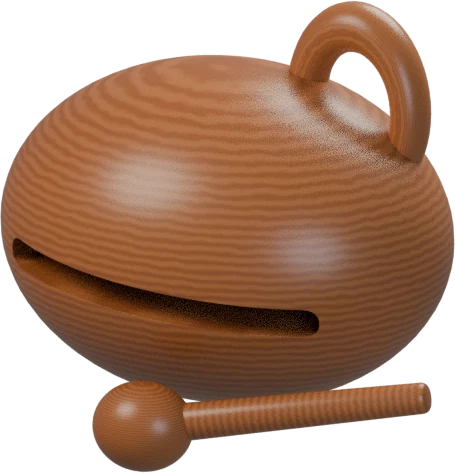
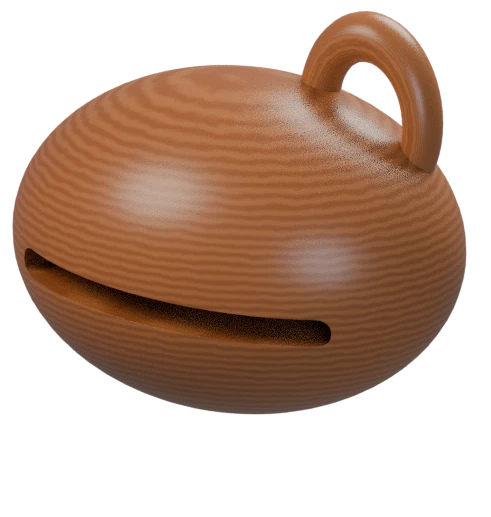
Swing the wooden mallet and time the sound to contact

diff --git a/src/ui/Woodfish.tsx b/src/ui/Woodfish.tsx
@@ -1,4 +1,4 @@
-import { useEffect, useState } from 'react';
+import { useCallback, useEffect, useRef, useState } from 'react';
 
 interface Props {
   onStrike: () => void;
@@ -8,14 +8,22 @@ interface Props {
 export default function Woodfish({ onStrike, onClose }: Props) {
   const [automatic, setAutomatic] = useState(false);
   const [strike, setStrike] = useState(0);
+  const soundTimer = useRef<number>();
+  const hit = useCallback(() => {
+    window.clearTimeout(soundTimer.current);
+    setStrike(value => value + 1);
+    if (window.matchMedia('(prefers-reduced-motion: reduce)').matches) {
+      onStrike();
+    } else {
+      soundTimer.current = window.setTimeout(onStrike, 143);
+    }
+  }, [onStrike]);
+  useEffect(() => () => window.clearTimeout(soundTimer.current), []);
   useEffect(() => {
     if (!automatic) return;
-    const timer = window.setInterval(() => {
-      onStrike();
-      setStrike(value => value + 1);
-    }, 1150);
+    const timer = window.setInterval(hit, 1150);
     return () => window.clearInterval(timer);
-  }, [automatic, onStrike]);
+  }, [automatic, hit]);
   useEffect(() => {
     const close = (event: KeyboardEvent) => {
       if (event.key === 'Escape') onClose();
@@ -34,12 +42,12 @@ export default function Woodfish({ onStrike, onClose }: Props) {
           </div>
           <button type="button" className="mala-close" aria-label="닫기" onClick={onClose}>×</button>
         </header>
-        <button type="button" className="woodfish-strike" aria-label="목어 치기" onClick={() => {
-          onStrike();
-          setStrike(value => value + 1);
-        }}>
-          <img key={strike} className={strike ? 'woodfish-struck' : undefined}
-            src="assets/ritual/woodfish.webp" alt="나무 목어와 채" draggable={false} />
+        <button type="button" className="woodfish-strike" aria-label="목어 치기" onClick={hit}>
+          <span className="woodfish-art">
+            <img src="assets/ritual/woodfish.webp" alt="나무 목어" draggable={false} />
+            <img key={strike} className={strike ? 'woodfish-mallet woodfish-struck' : 'woodfish-mallet'}
+              src="assets/ritual/woodfish-mallet.webp" alt="" draggable={false} />
+          </span>
         </button>
         <footer className="woodfish-controls">
           <button type="button" className="mala-step" aria-pressed={automatic}

diff --git a/src/index.css b/src/index.css
@@ -614,18 +614,22 @@ html[data-md-night='1'] canvas { filter: brightness(0.62) saturate(0.72); transi
   background: transparent;
   cursor: pointer;
 }
-.woodfish-strike img {
+.woodfish-art {
+  position: relative;
   display: block;
-  width: min(100%, 285px);
-  max-height: 49dvh;
-  object-fit: contain;
+  width: min(100%, 285px, 46dvh);
   margin: auto;
   filter: drop-shadow(0 16px 18px #0007);
 }
-.woodfish-struck { animation: woodfish-tap 220ms ease-out; }
+.woodfish-art img { display: block; width: 100%; pointer-events: none; }
+.woodfish-mallet { position: absolute; inset: 0; transform-origin: 91% 82%; }
+.woodfish-struck { animation: woodfish-tap 340ms ease-in-out; }
 .woodfish-controls { display: flex; justify-content: center; gap: 12px; }
 @keyframes woodfish-tap {
-  35% { transform: scale(0.985) rotate(-1deg); }
+  16% { transform: rotate(-6deg); }
+  42% { transform: rotate(30deg); }
+  62% { transform: rotate(9deg); }
+  76% { transform: rotate(13deg); }
 }
 @media (prefers-reduced-motion: reduce) {
   .woodfish-struck { animation: none; }

diff --git a/src/App.tsx b/src/App.tsx
@@ -651,7 +651,7 @@ function ExperienceApp({ privateKey = '', onPrivateDenied }: {
           {!isPrivate && insideHall && <ActionBar
             machine={machine}
             onOpenMala={openMala}
-            onOpenWoodfish={() => { strikeWoodfish(); setWoodfishOpen(true); }}
+            onOpenWoodfish={() => setWoodfishOpen(true)}
             onTour={onTour}
             onBell={onBell}
             onWish={onWish}
